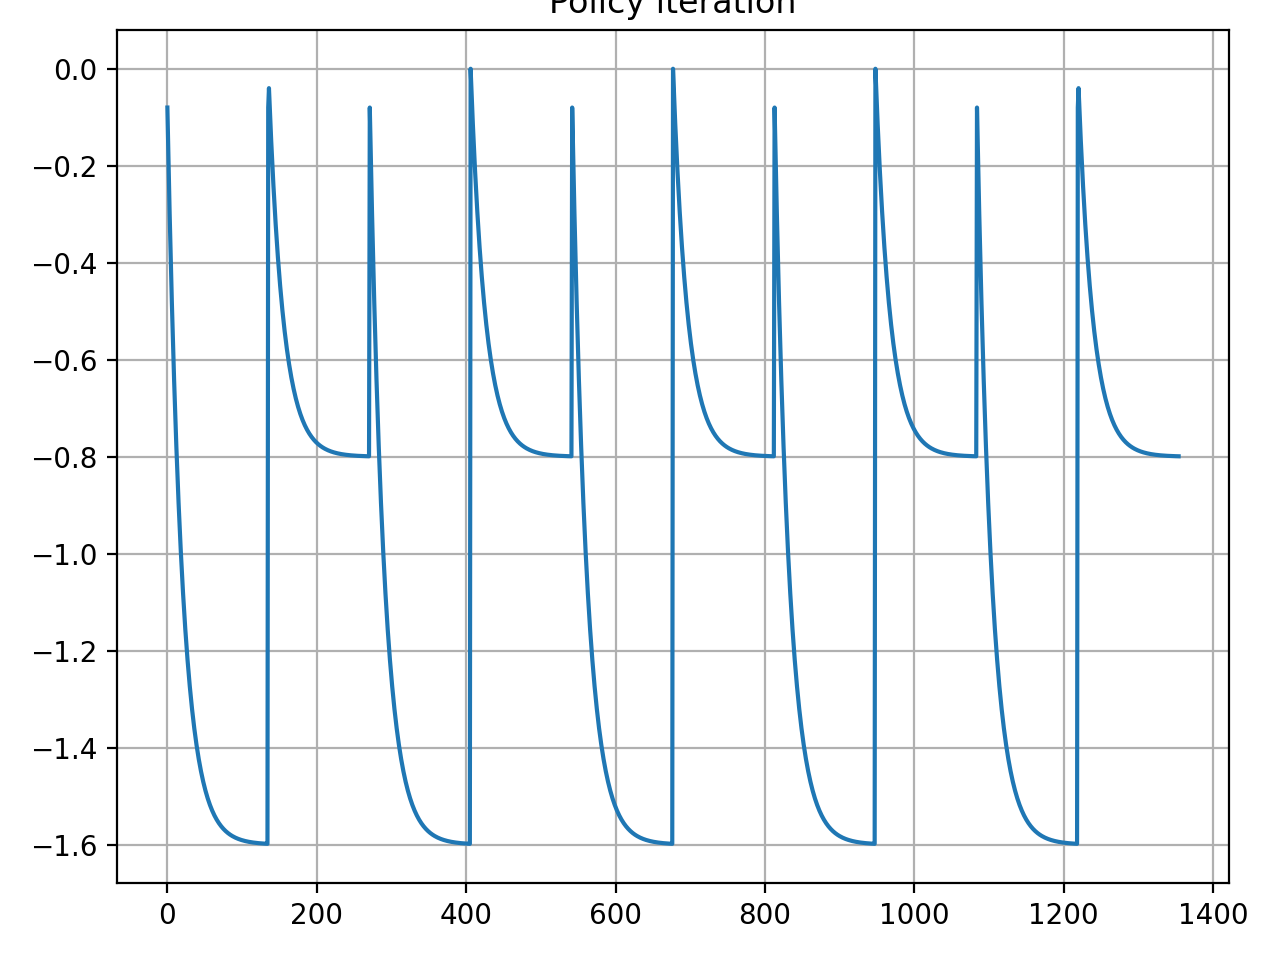
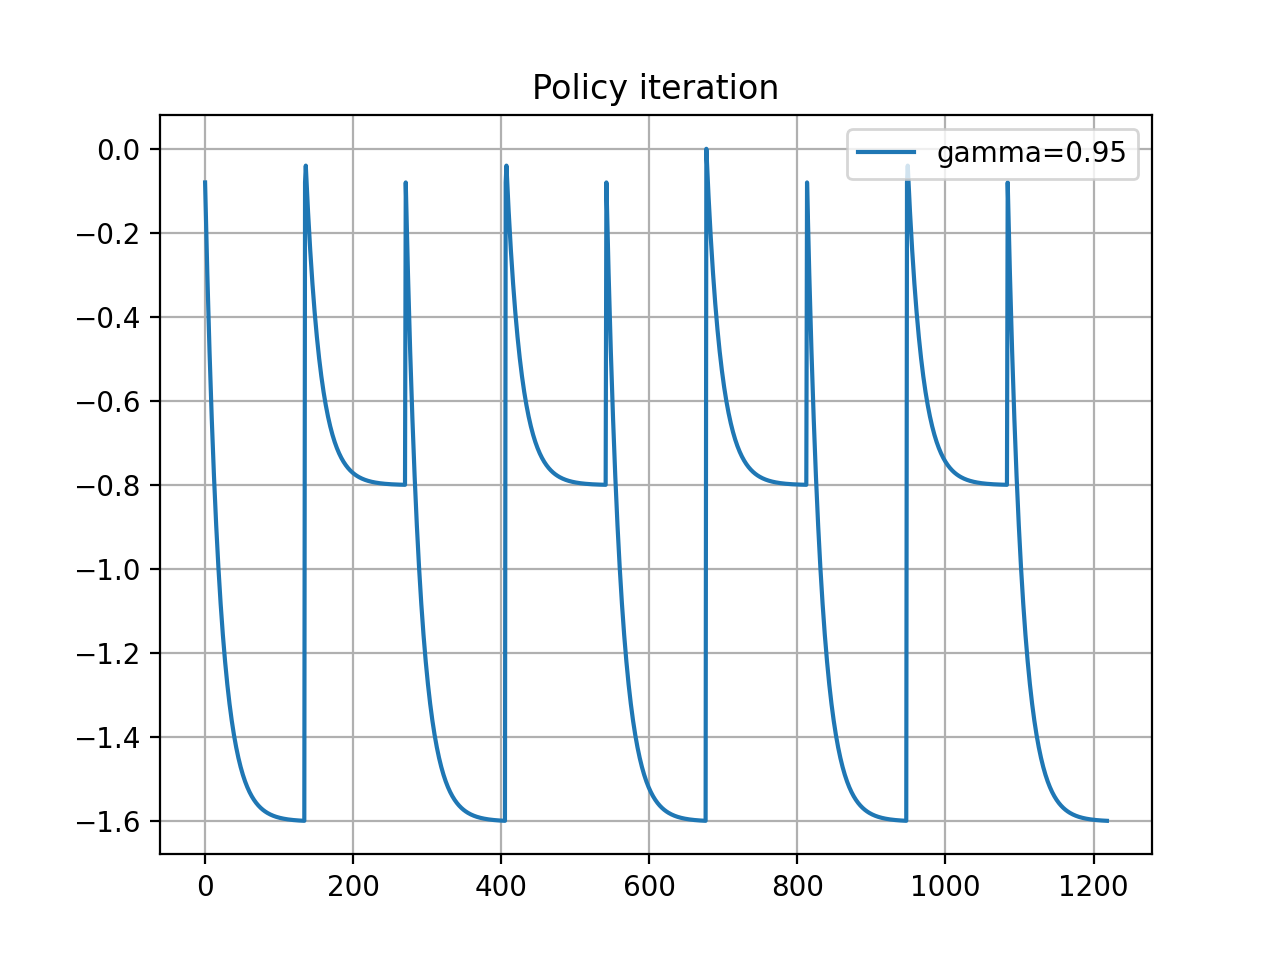
added SARSA and re-organized code

Changed region(s): [[0.0312, 0.0, 0.9688, 0.9688], [0.0312, 0.0312, 0.0938, 0.0938]]

diff --git a/train_gridworld.py b/train_gridworld.py
@@ -1,10 +1,9 @@
-import matplotlib
-matplotlib.use('Agg')
 import random
 import numpy as np
 import matplotlib.pyplot as plt
 import gridworld
-from tqdm import tqdm
+
+"""Since this is a HW assignment, each method implemented has its own Class. Ideally we can use an abstract class"""
 
 class PolicyIteration:
     def __init__(self, env, gamma):
@@ -66,15 +65,58 @@ class PolicyIteration:
 
         if plot is True:
             plt.figure(dpi=200)
-            plt.plot(mean_V_list)
-            plt.tight_layout()
+            plt.plot(mean_V_list,label='gamma=0.95')
+            plt.legend()
             plt.grid('on')
-            plt.title('Policy iteration')
-            plt.savefig('figures/gridworld/policy_iteration.png')
+            plt.title('Mean Value vs Evaluations')
+            plt.savefig('figures/gridworld/LearningCurve_PolicyIter.png')
 
         return policy, V, delta_history_count
+    
+    def plot_example_trajectories(self, num_steps):
+        agent =  PolicyIteration(self.env, gamma=0.95)
+        policy, _, _ = self.train(plot=False)
 
+        fig, axs = plt.subplots(nrows=num_steps, figsize=(6, 3*num_steps))
+        for i in range(num_steps):
+            state = self.env.reset()
+            done = False
+            traj = [state]
+            while not done:
+                action = policy[state]
+                next_state, _, done= self.env.step(action)
+                traj.append(next_state)
+                state = next_state
+            traj = np.array(traj)
+            axs[i].scatter(traj[:, 0], traj[:, 1], c=np.arange(len(traj)), cmap='plasma', alpha=0.8)
+            axs[i].set_xlim([0, self.env.grid_size])
+            axs[i].set_ylim([0, self.env.grid_size])
+            axs[i].set_xticks(np.arange(0.5, self.env.grid_size, 1))
+            axs[i].set_yticks(np.arange(0.5, self.env.grid_size, 1))
+            axs[i].grid(color='k', linestyle='-', linewidth=1)
+            axs[i].set_title(f'Trajectory {i+1}')
+        plt.tight_layout()
+        plt.savefig('figures/gridworld/example_trajectory_PolicyIter.png')
 
+    
+    def plot_policy(self):
+        # Compute state-values and policy
+        agent =  PolicyIteration(self.env, gamma=0.95)
+        policy, state_values, _ = agent.train(plot=False)
+        # Plot state-value function
+        fig, axs = plt.subplots(nrows=1, ncols=2, figsize=(12, 6))
+        axs[0].plot(state_values)
+        axs[0].set_xlabel('State')
+        axs[0].set_ylabel('State-value')
+        axs[0].set_title('State-value function')
+        # Plot policy
+        axs[1].bar(range(self.env.num_states), policy)
+        axs[1].set_xlabel('State')
+        axs[1].set_ylabel('Action')
+        axs[1].set_title('Policy')
+        
+        plt.savefig('figures/gridworld/policy_stateValue_PolicyIter.png')
+        
 class ValueIteration:
     def __init__(self, env, gamma):
         self.env = env
@@ -83,53 +125,231 @@ class ValueIteration:
         self.max_num_steps = self.env.max_num_steps
 
         self.gamma = gamma #discount factor
-        self.values = np.zeros(self.num_states) #Initialize `values` as zeros
-        self.policy = np.random.randint(0, self.num_actions, self.num_states)
         self.theta =  1e-3
 
     def train(self, plot = True):
-        delta = 0
+
+        values = np.zeros(self.num_states)
+        policy = np.random.randint(0, self.num_actions, self.num_states)
+        
         value_hist_mean = []
         # Outer loop: iterate over policy and value function until convergence
         while True:
-        
+            delta = 0
             for s in range(self.num_states):
-                v = self.values[s]
+                v = values[s]
                 v_list = np.zeros(self.num_actions)
-
                 for a in range(self.num_actions):
-                    # (s_new, r, _) = self.env.step(a)
-                    # p = self.env.p(s_new, s, a)
+                    v_list[a] = np.sum([self.env.p(s_new, s, policy[s]) * (r + self.gamma * values[s_new]) \
+                                         for (s_new, r, _) in [self.env.step(policy[s])]])
+                    
+                # Update the value function for the state
+                values[s] = np.max(v_list)
+                policy[s] = np.argmax(v_list)
+                delta = max(delta, abs(v - values[s]))
 
-                    v_list[a] = np.sum([self.env.p(s_new, s, self.policy[s]) * (r + self.gamma * self.values[s_new]) \
-                                         for (s_new, r, _) in [self.env.step(self.policy[s])]])
-                self.values[s] = np.max(v_list)
-                self.policy[s] = np.argmax(v_list)
-                delta = max(delta, abs(v - self.values[s]))
-                s = self.env.reset()
-
+            value_hist_mean.append(sum(values)/self.num_states)
+        
             if delta < self.theta:
                     break
             
-            value_hist_mean.append(sum(v_list)/self.num_states)
-     
-
+        print(f'Total counts of values stored is {len(value_hist_mean)}!')
+            
         if plot is True:
             plt.figure(dpi=200)
-            plt.plot(value_hist_mean)
+            plt.plot(value_hist_mean,label='gamma=0.95')
+            plt.grid('on')
+            plt.title('Mean Value vs Iterations')
+            plt.legend()
             plt.tight_layout()
-            plt.savefig('figures/gridworld/value_iteration.png')
+            plt.savefig('figures/gridworld/LearningCurve_ValueIter.png')
+            
+        return policy, values
+    
+    def plot_example_trajectories(self, num_steps):
+        agent =  ValueIteration(self.env, gamma=0.95)
+        policy, _ = agent.train(plot=False)
 
-        return self.policy, self.values
+        fig, axs = plt.subplots(nrows=num_steps, figsize=(6, 3*num_steps))
+        for i in range(num_steps):
+            state = self.env.reset()
+            done = False
+            traj = [state]
+            while not done:
+                action = policy[state]
+                next_state, _, done= self.env.step(action)
+                traj.append(next_state)
+                state = next_state
+            traj = np.array(traj)
+            axs[i].scatter(traj[:, 0], traj[:, 1], c=np.arange(len(traj)), cmap='plasma', alpha=0.8)
+            axs[i].set_xlim([0, self.env.grid_size])
+            axs[i].set_ylim([0, self.env.grid_size])
+            axs[i].set_xticks(np.arange(0.5, self.env.grid_size, 1))
+            axs[i].set_yticks(np.arange(0.5, self.env.grid_size, 1))
+            axs[i].grid(color='k', linestyle='-', linewidth=1)
+            axs[i].set_title(f'Trajectory {i+1}')
+        plt.tight_layout()
+        plt.savefig('figures/gridworld/example_trajectory_ValueIter.png')
+    
+    def plot_policy(self):
+        # Compute state-values and policy
+        agent =  PolicyIteration(self.env, gamma=0.95)
+        policy, state_values = agent.train(plot=False)
+        # Plot state-value function
+        fig, axs = plt.subplots(nrows=1, ncols=2, figsize=(12, 6))
+        axs[0].plot(state_values)
+        axs[0].set_xlabel('State')
+        axs[0].set_ylabel('State-value')
+        axs[0].set_title('State-value function')
+        # Plot policy
+        axs[1].bar(range(self.env.num_states), policy)
+        axs[1].set_xlabel('State')
+        axs[1].set_ylabel('Action')
+        axs[1].set_title('Policy')
+        
+        plt.savefig('figures/gridworld/policy_stateValue_ValueIter.png')
+    
+
+class SarsaTD0:
+    def __init__(self, env, alpha=0.5, gamma=0.95, epsilon=0.1):
+        self.env = env
+        self.alpha = alpha
+        self.gamma = gamma
+        self.epsilon = epsilon
+        self.Q = np.zeros((self.env.num_states, self.env.num_actions))
+
+    def choose_action(self, state):
+        if random.random() < self.epsilon:
+            # Choose a random action
+            return random.randint(0, self.env.num_actions-1)
+        else:
+            # Choose the greedy action
+            return np.argmax(self.Q[state])
+
+    def train(self, num_episodes):
+        returns = []
+        for episode in range(num_episodes):
+            state = self.env.reset()
+            action = self.choose_action(state)
+            total_return = 0
+            for step in range(self.env.max_num_steps):
+                next_state, reward, done= self.env.step(action)
+                next_action = self.choose_action(next_state)
+                # SARSA update rule
+                self.Q[state][action] += self.alpha * (reward + self.gamma * self.Q[next_state][next_action] - self.Q[state][action])
+                total_return += reward
+                state = next_state
+                action = next_action
+                if done:
+                    break
+            returns.append(total_return)
+
+        # Compute value function using TD(0)
+        self.V = np.zeros(self.num_states)
+        for state in range(self.num_states):
+            for action in range(self.num_actions):
+                self.V[state] += self.Q[state, action] * self.epsilon / self.num_actions + \
+                                (1 - self.epsilon) * self.Q[state, np.argmax(self.Q[state, :])] \
+                                * (1 - self.epsilon + self.epsilon / self.num_actions)
+        return returns
+
+    def plot_learning_curves(self, alphas, epsilons, num_episodes):
+        fig, axs = plt.subplots(nrows=len(alphas), ncols=len(epsilons), figsize=(15, 10))
+        for i, alpha in enumerate(alphas):
+            for j, epsilon in enumerate(epsilons):
+                agent = SarsaTD0(self.env, alpha=alpha, gamma=0.95, epsilon=epsilon)
+                returns= agent.train(num_episodes)
+                axs[i][j].plot(range(num_episodes), returns)
+                axs[i][j].set_title(f'alpha={alpha}, epsilon={epsilon}')
+        plt.tight_layout()
+        # plt.show()
+        plt.savefig('figures/gridworld/Learning_curves_SARSA.png')
+
+    def plot_example_trajectories(self, num_trajectories):
+        fig, axs = plt.subplots(nrows=num_trajectories, figsize=(6, 3*num_trajectories))
+        for i in range(num_trajectories):
+            state = self.env.reset()
+            done = False
+            traj = [state]
+            while not done:
+                action = np.argmax(self.Q[state])
+                next_state, _, done= self.env.step(action)
+                traj.append(next_state)
+                state = next_state
+            traj = np.array(traj)
+            axs[i].scatter(traj[:, 0], traj[:, 1], c=np.arange(len(traj)), cmap='plasma', alpha=0.8)
+            axs[i].set_xlim([0, self.env.grid_size])
+            axs[i].set_ylim([0, self.env.grid_size])
+            axs[i].set_xticks(np.arange(0.5, self.env.grid_size, 1))
+            axs[i].set_yticks(np.arange(0.5, self.env.grid_size, 1))
+            axs[i].grid(color='k', linestyle='-', linewidth=1)
+            axs[i].set_title(f'Trajectory {i+1}')
+        plt.tight_layout()
+        plt.savefig('figures/gridworld/example_trajectory_SARSA.png')
+        
+
+    def plot_policy(self):
+        # Compute state-values and policy
+        state_values = self.V
+        policy = np.argmax(self.Q, axis=1)
+        # Plot state-value function
+        fig, axs = plt.subplots(nrows=1, ncols=2, figsize=(12, 6))
+        axs[0].plot(state_values)
+        axs[0].set_xlabel('State')
+        axs[0].set_ylabel('State-value')
+        axs[0].set_title('State-value function')
+        
+        # Plot policy
+        axs[1].bar(range(self.env.num_states), policy)
+        axs[1].set_xlabel('State')
+        axs[1].set_ylabel('Action')
+        axs[1].set_title('Policy')
+        
+        plt.savefig('figures/gridworld/policy_stateValue_SARSA.png')
+
+##########################################################################################
+
+
+"""
+
+MAIN LOOP:
+
+
+"""    
+        
     
 def main():
+    """Policy iteration"""
+    env.reset()
     env = gridworld.GridWorld(hard_version=False)
     policy_iter = PolicyIteration(env, gamma=0.95)
-    policy_iter.train()   
+    policy_iter.plot_example_trajectories(num_steps=100)
+    policy_iter.plot_policy()
 
+    """Value iteration"""
+    env.reset()
     value_iter = ValueIteration(env, gamma = 0.95)
-    value_iter.train()
+    value_iter.plot_example_trajectories(num_steps=100)
+    value_iter.plot_policy()
     
+    """SARSA"""
+    # by default: alpha=0.5, gamma=0.95, epsilon=0.1
+    alphas = [0.3, 0.5, 0.8]
+    epsilons = [0.1, 0.3, 0.5]
+    num_episodes = 100
+    sarsa = SarsaTD0(env)
+    #Learning curves with various alphas and epsilons
+    sarsa.plot_learning_curves(alphas, epsilons, num_episodes)
+    sarsa.plot_example_trajectories(num_trajectories=20)
+    sarsa.plot_policy()
+
+   
+
+  
+
+
+
+
 
 if __name__ == '__main__':
     main()
